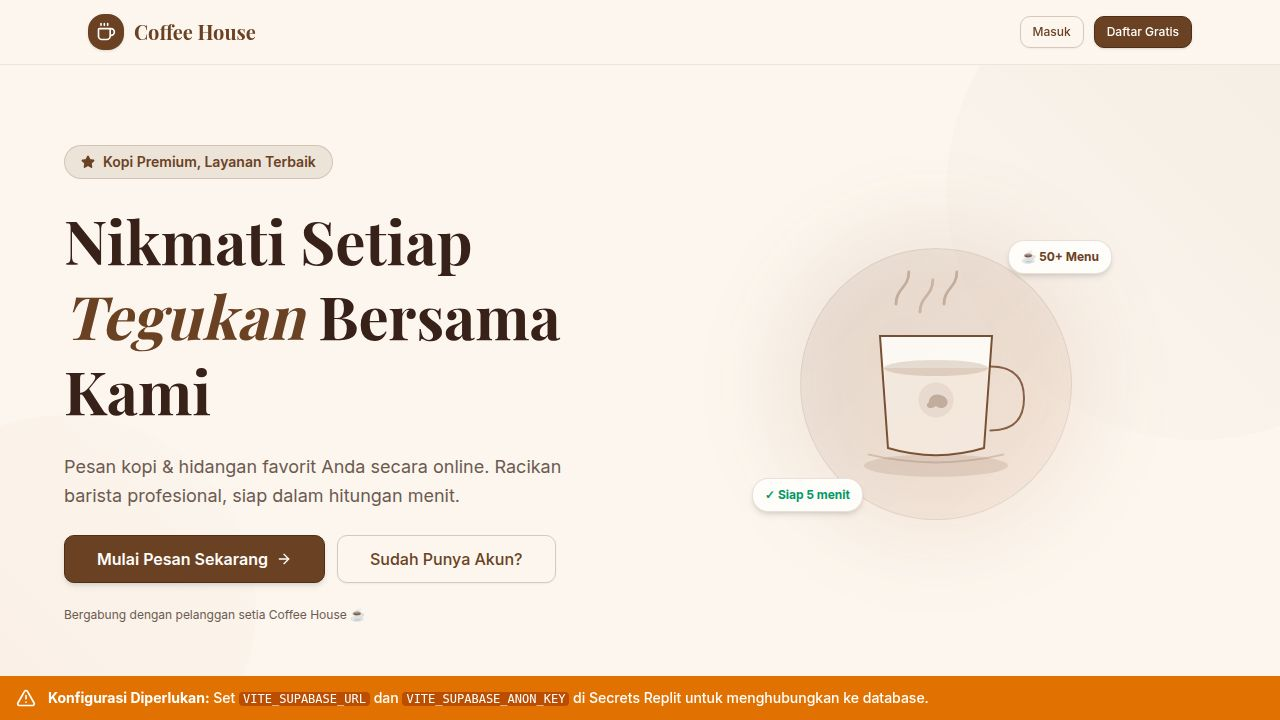
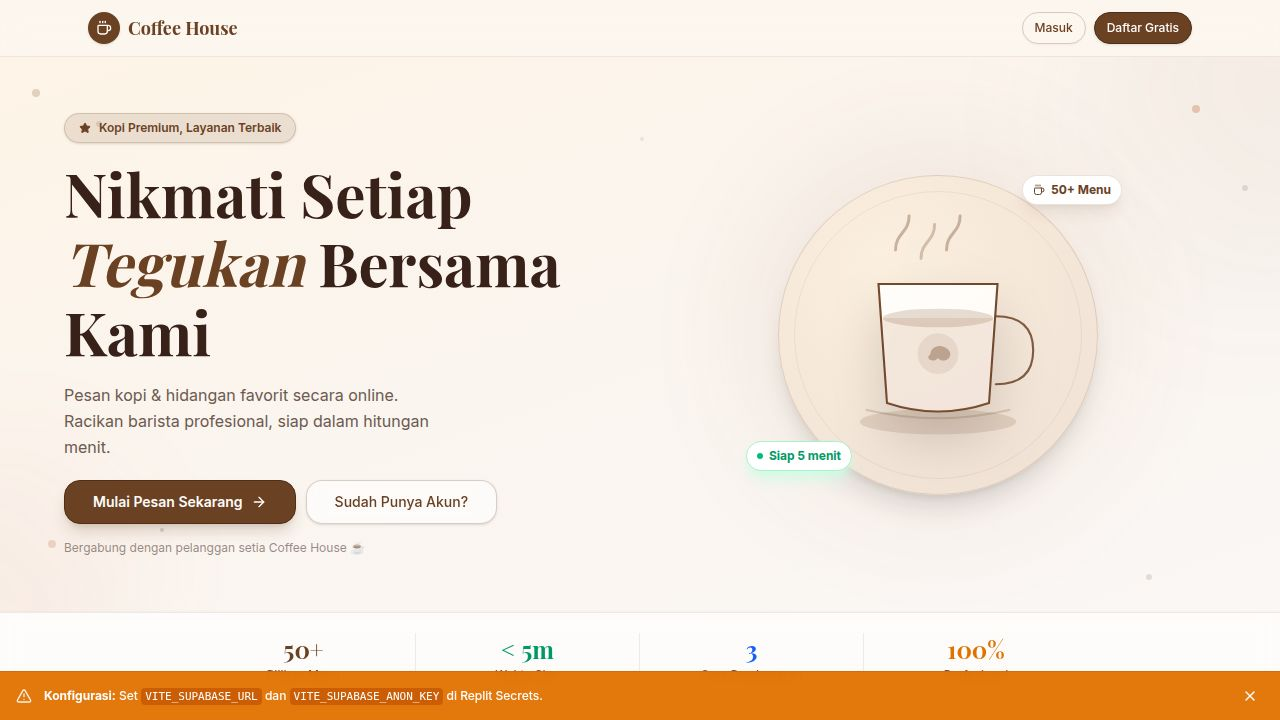
Add personalized greetings and search functionality to the menu page
Adds a personalized greeting banner and search bar to the MenuPage, and updates the MenuGrid component for better mobile responsiveness.

Replit-Commit-Author: Agent
Replit-Commit-Session-Id: 07562112-2173-41ec-a200-76db319d40c2
Replit-Commit-Checkpoint-Type: full_checkpoint
Replit-Commit-Event-Id: 35a81006-3a9f-49f6-91ac-394bfe94c1f9
Replit-Commit-Screenshot-Url: https://storage.googleapis.com/screenshot-production-us-central1/54ad4032-a1f5-424b-afe0-efc4f24c756f/07562112-2173-41ec-a200-76db319d40c2/ktf0HLD
Replit-Helium-Checkpoint-Created: true

diff --git a/artifacts/coffee-house/src/pages/MenuPage.tsx b/artifacts/coffee-house/src/pages/MenuPage.tsx
@@ -8,7 +8,7 @@ import { Button } from '@/components/ui/button'
 import { Sheet, SheetContent, SheetHeader, SheetTitle, SheetTrigger } from '@/components/ui/sheet'
 import {
   LogOut, ShoppingBag, Clock, CheckCircle, AlertCircle,
-  Eye, RefreshCw, ShoppingCart, Coffee, UtensilsCrossed, ClipboardList,
+  Eye, RefreshCw, ShoppingCart, Coffee, UtensilsCrossed, ClipboardList, Search, X,
 } from 'lucide-react'
 import { formatRupiah } from '@/lib/utils'
 import { toast } from 'sonner'
@@ -42,16 +42,25 @@ const paymentStatusConfig: Record<string, { label: string; cls: string }> = {
 }
 
 const orderStatusConfig: Record<string, { label: string; cls: string; icon?: React.ElementType }> = {
-  pending:   { label: 'Antrean',       cls: 'bg-amber-50 border-amber-200 text-amber-800',     icon: Clock },
+  pending:   { label: 'Antrean',       cls: 'bg-amber-50 border-amber-200 text-amber-800',       icon: Clock },
   preparing: { label: 'Sedang Dibuat', cls: 'bg-blue-50 border-blue-200 text-blue-800' },
   ready:     { label: 'Siap Diambil',  cls: 'bg-emerald-50 border-emerald-200 text-emerald-800', icon: CheckCircle },
   completed: { label: 'Selesai',       cls: 'bg-slate-50 border-slate-200 text-slate-700' },
-  cancelled: { label: 'Dibatalkan',    cls: 'bg-rose-50 border-rose-200 text-rose-800',         icon: AlertCircle },
+  cancelled: { label: 'Dibatalkan',    cls: 'bg-rose-50 border-rose-200 text-rose-800',           icon: AlertCircle },
+}
+
+function getTimeGreeting() {
+  const hour = new Date().getHours()
+  if (hour < 11) return 'Selamat pagi'
+  if (hour < 15) return 'Selamat siang'
+  if (hour < 18) return 'Selamat sore'
+  return 'Selamat malam'
 }
 
 export default function MenuPage() {
   const [items, setItems] = useState<MenuItem[]>([])
   const [selectedCategory, setSelectedCategory] = useState<string | null>(null)
+  const [searchQuery, setSearchQuery] = useState('')
   const [isLoadingMenu, setIsLoadingMenu] = useState(true)
   const [user, setUser] = useState<any>(null)
   const [activeTab, setActiveTab] = useState<'menu' | 'orders'>('menu')
@@ -87,10 +96,7 @@ export default function MenuPage() {
     setIsLoadingOrders(true)
     try {
       const { data, error } = await supabase
-        .from('orders')
-        .select('*')
-        .eq('user_id', user.id)
-        .order('created_at', { ascending: false })
+        .from('orders').select('*').eq('user_id', user.id).order('created_at', { ascending: false })
       if (error && isSupabaseConfigured) toast.error('Gagal mengambil riwayat pesanan')
       else if (data) setOrders(data)
     } catch {
@@ -104,7 +110,12 @@ export default function MenuPage() {
   }, [activeTab, user])
 
   const categories = Array.from(new Set(items.map((item) => item.category))).sort()
-  const filteredItems = selectedCategory ? items.filter((item) => item.category === selectedCategory) : items
+  const filteredItems = items.filter((item) => {
+    const matchesCategory = !selectedCategory || item.category === selectedCategory
+    const q = searchQuery.toLowerCase()
+    const matchesSearch = !q || item.name.toLowerCase().includes(q) || item.description?.toLowerCase().includes(q)
+    return matchesCategory && matchesSearch
+  })
   const cartCount = cart.items.reduce((s, i) => s + i.quantity, 0)
   const cartTotal = cart.getTotal()
 
@@ -113,11 +124,13 @@ export default function MenuPage() {
     setLocation('/auth/login')
   }
 
+  const greeting = getTimeGreeting()
+
   return (
     <div className="min-h-screen bg-background">
-      {/* Header */}
+      {/* ── Header ── */}
       <header className="sticky top-0 z-40 border-b border-primary/10 bg-background/95 backdrop-blur-md shadow-sm">
-        <div className="flex items-center px-4 md:px-6 py-3 gap-3">
+        <div className="flex items-center px-4 md:px-6 py-3 gap-3 max-w-7xl mx-auto">
           <div className="flex items-center gap-2 min-w-0 flex-1">
             <div className="w-8 h-8 rounded-lg bg-primary flex items-center justify-center flex-shrink-0">
               <Coffee className="h-4 w-4 text-primary-foreground" />
@@ -127,18 +140,15 @@ export default function MenuPage() {
             </span>
           </div>
 
-          {/* Desktop: username + logout */}
           {user && (
-            <span className="hidden sm:flex items-center gap-1.5 text-xs font-medium text-muted-foreground bg-primary/6 px-3 py-1.5 rounded-lg border border-primary/12 truncate max-w-[140px]">
-              <span className="w-1.5 h-1.5 bg-emerald-400 rounded-full flex-shrink-0" />
-              {user.username}
-            </span>
+            <div className="hidden sm:flex items-center gap-1.5 text-xs font-medium text-muted-foreground bg-primary/6 px-3 py-1.5 rounded-lg border border-primary/12 truncate max-w-[160px]">
+              <span className="w-1.5 h-1.5 bg-emerald-400 rounded-full flex-shrink-0 animate-pulse" />
+              <span className="truncate">{greeting}, <span className="font-bold text-primary">{user.username}</span></span>
+            </div>
           )}
 
           <Button
-            variant="ghost"
-            size="sm"
-            onClick={handleLogout}
+            variant="ghost" size="sm" onClick={handleLogout}
             className="text-muted-foreground hover:text-red-500 hover:bg-red-50 h-8 px-2 rounded-lg text-xs gap-1.5 flex-shrink-0"
           >
             <LogOut className="h-3.5 w-3.5" />
@@ -147,7 +157,7 @@ export default function MenuPage() {
         </div>
       </header>
 
-      {/* Desktop tab bar */}
+      {/* ── Desktop tab bar ── */}
       <div className="hidden lg:block border-b border-primary/10 bg-background sticky top-[57px] z-30">
         <div className="flex max-w-7xl mx-auto px-6">
           {(['menu', 'orders'] as const).map((tab) => (
@@ -162,45 +172,86 @@ export default function MenuPage() {
             >
               {tab === 'menu'
                 ? <><UtensilsCrossed className="h-3.5 w-3.5" />Daftar Menu</>
-                : <><ClipboardList className="h-3.5 w-3.5" />Pesanan Saya</>
+                : <><ClipboardList className="h-3.5 w-3.5" />Pesanan Saya
+                  {orders.length > 0 && (
+                    <span className="ml-1 bg-primary text-primary-foreground text-[9px] font-bold w-4 h-4 rounded-full flex items-center justify-center">
+                      {orders.length}
+                    </span>
+                  )}
+                </>
               }
             </button>
           ))}
         </div>
       </div>
 
-      {/* Mobile page title bar */}
+      {/* ── Mobile greeting banner ── */}
       <div
-        className="lg:hidden px-4 py-3 border-b border-primary/10"
-        style={{ background: 'linear-gradient(90deg, hsl(25 50% 28% / 0.06) 0%, hsl(35 80% 95%) 100%)' }}
+        className="lg:hidden border-b border-primary/8"
+        style={{ background: 'linear-gradient(100deg, hsl(35 85% 95%) 0%, hsl(30 55% 97%) 60%, hsl(25 35% 98%) 100%)' }}
       >
-        <div className="flex items-center justify-between">
-          <div className="flex items-center gap-2">
-            <div className={`w-7 h-7 rounded-lg flex items-center justify-center ${activeTab === 'menu' ? 'bg-primary' : 'bg-blue-500'}`}>
-              {activeTab === 'menu'
-                ? <UtensilsCrossed className="h-3.5 w-3.5 text-white" />
-                : <ClipboardList className="h-3.5 w-3.5 text-white" />
-              }
-            </div>
-            <h2 className="text-sm font-bold text-foreground">
-              {activeTab === 'menu' ? 'Daftar Menu' : 'Pesanan Saya'}
-            </h2>
+        <div className="px-4 py-3 flex items-center justify-between">
+          <div className="min-w-0">
+            <p className="text-[11px] text-muted-foreground font-medium">{greeting}! 👋</p>
+            <p className="text-sm font-bold text-primary truncate" style={{ fontFamily: 'Playfair Display, serif' }}>
+              {user ? user.username : 'Pelanggan'}{activeTab === 'menu' ? ' — mau pesan apa?' : ' — pesanan kamu'}
+            </p>
           </div>
-          {user && (
-            <div className="flex items-center gap-1.5 bg-white/60 border border-primary/10 rounded-full px-2.5 py-1">
-              <span className="w-1.5 h-1.5 bg-emerald-400 rounded-full" />
-              <span className="text-xs font-medium text-foreground/70">{user.username}</span>
-            </div>
-          )}
+          {/* Mobile tab switcher pills */}
+          <div className="flex gap-1 flex-shrink-0 ml-3">
+            <button
+              onClick={() => setActiveTab('menu')}
+              className={`flex items-center gap-1 px-2.5 py-1.5 rounded-lg text-[11px] font-semibold transition-all ${
+                activeTab === 'menu' ? 'bg-primary text-white shadow-sm' : 'bg-black/5 text-foreground/60 hover:bg-black/8'
+              }`}
+            >
+              <UtensilsCrossed className="h-3 w-3" />
+              Menu
+            </button>
+            <button
+              onClick={() => setActiveTab('orders')}
+              className={`flex items-center gap-1 px-2.5 py-1.5 rounded-lg text-[11px] font-semibold transition-all relative ${
+                activeTab === 'orders' ? 'bg-primary text-white shadow-sm' : 'bg-black/5 text-foreground/60 hover:bg-black/8'
+              }`}
+            >
+              <ClipboardList className="h-3 w-3" />
+              Pesanan
+              {orders.length > 0 && activeTab !== 'orders' && (
+                <span className="absolute -top-1 -right-1 bg-accent text-accent-foreground text-[8px] font-bold w-3.5 h-3.5 rounded-full flex items-center justify-center">
+                  {orders.length}
+                </span>
+              )}
+            </button>
+          </div>
         </div>
       </div>
 
-      {/* Main content */}
+      {/* ── Main content ── */}
       <div className="max-w-7xl mx-auto px-4 md:px-6 py-4 pb-24 lg:pb-6">
         {activeTab === 'menu' ? (
           <div className="flex flex-col lg:flex-row gap-6">
             <div className="flex-1 min-w-0">
-              {/* Category filter */}
+              {/* Search bar */}
+              <div className="relative mb-3">
+                <Search className="absolute left-3 top-1/2 -translate-y-1/2 h-4 w-4 text-muted-foreground pointer-events-none" />
+                <input
+                  type="text"
+                  value={searchQuery}
+                  onChange={(e) => setSearchQuery(e.target.value)}
+                  placeholder="Cari menu favoritmu..."
+                  className="w-full bg-card border border-primary/15 rounded-xl py-2.5 pl-9 pr-9 text-sm focus:outline-none focus:border-primary/40 focus:ring-2 focus:ring-primary/10 transition-all placeholder:text-muted-foreground/60 shadow-sm"
+                />
+                {searchQuery && (
+                  <button
+                    onClick={() => setSearchQuery('')}
+                    className="absolute right-3 top-1/2 -translate-y-1/2 text-muted-foreground hover:text-foreground transition-colors p-0.5 rounded"
+                  >
+                    <X className="h-3.5 w-3.5" />
+                  </button>
+                )}
+              </div>
+
+              {/* Category filter pills */}
               <div className="mb-4">
                 <div className="flex gap-2 overflow-x-auto pb-1 scrollbar-none -mx-1 px-1">
                   <button
@@ -240,7 +291,7 @@ export default function MenuPage() {
                   className="rounded-3xl mt-2 overflow-hidden border border-primary/10 shadow-sm"
                   style={{ background: 'linear-gradient(160deg, hsl(35 80% 97%) 0%, hsl(25 50% 96%) 100%)' }}
                 >
-                  <div className="px-6 py-12 text-center space-y-3">
+                  <div className="px-6 py-14 text-center space-y-3">
                     <div className="relative w-20 h-20 mx-auto">
                       <div className="absolute inset-0 rounded-full bg-primary/8 animate-pulse" />
                       <div className="relative flex items-center justify-center h-full">
@@ -259,11 +310,16 @@ export default function MenuPage() {
               ) : filteredItems.length === 0 ? (
                 <div className="text-center py-16 border border-dashed border-primary/20 rounded-2xl bg-card/50 mt-2">
                   <div className="w-14 h-14 rounded-2xl bg-primary/8 flex items-center justify-center mx-auto mb-3">
-                    <Coffee className="h-6 w-6 text-primary/30" />
+                    <Search className="h-6 w-6 text-primary/30" />
                   </div>
-                  <p className="font-medium text-foreground/60 text-sm">Tidak ada menu di kategori ini.</p>
-                  <button onClick={() => setSelectedCategory(null)} className="text-xs text-primary hover:underline mt-2 inline-block">
-                    Lihat semua menu →
+                  <p className="font-medium text-foreground/60 text-sm">
+                    {searchQuery ? `Tidak ada menu "${searchQuery}"` : 'Tidak ada menu di kategori ini.'}
+                  </p>
+                  <button
+                    onClick={() => { setSearchQuery(''); setSelectedCategory(null) }}
+                    className="text-xs text-primary hover:underline mt-2 inline-block"
+                  >
+                    Reset pencarian →
                   </button>
                 </div>
               ) : (
@@ -277,7 +333,7 @@ export default function MenuPage() {
             </div>
           </div>
         ) : (
-          /* Orders tab — desktop */
+          /* Orders tab */
           <div className="space-y-4 max-w-2xl">
             <div className="flex justify-between items-center">
               <div>
@@ -299,17 +355,23 @@ export default function MenuPage() {
                 ))}
               </div>
             ) : orders.length === 0 ? (
-              <div className="bg-card border border-primary/10 rounded-2xl p-10 text-center space-y-4 shadow-sm">
-                <div className="w-16 h-16 rounded-2xl bg-primary/8 flex items-center justify-center mx-auto">
-                  <ShoppingBag className="h-7 w-7 text-primary/30" />
+              <div
+                className="rounded-3xl overflow-hidden border border-primary/10 shadow-sm"
+                style={{ background: 'linear-gradient(160deg, hsl(35 80% 97%) 0%, hsl(25 50% 96%) 100%)' }}
+              >
+                <div className="p-10 text-center space-y-4">
+                  <div className="w-16 h-16 rounded-2xl bg-primary/8 flex items-center justify-center mx-auto">
+                    <ShoppingBag className="h-7 w-7 text-primary/30" />
+                  </div>
+                  <div>
+                    <p className="font-bold text-foreground/70">Belum ada pesanan</p>
+                    <p className="text-sm text-muted-foreground mt-1">Yuk, mulai pesan kopi favoritmu!</p>
+                  </div>
+                  <Button onClick={() => setActiveTab('menu')} className="bg-primary hover:bg-primary/90 shadow-sm rounded-xl gap-2">
+                    <UtensilsCrossed className="h-4 w-4" />
+                    Lihat Menu
+                  </Button>
                 </div>
-                <div>
-                  <p className="font-medium text-foreground/70">Belum ada pesanan</p>
-                  <p className="text-sm text-muted-foreground mt-1">Yuk, mulai pesan kopi favoritmu!</p>
-                </div>
-                <Button onClick={() => setActiveTab('menu')} className="bg-primary hover:bg-primary/90 shadow-sm rounded-xl">
-                  Pesan Sekarang
-                </Button>
               </div>
             ) : (
               <div className="space-y-3">
@@ -359,10 +421,10 @@ export default function MenuPage() {
         )}
       </div>
 
-      {/* ─── MOBILE BOTTOM NAVIGATION ─── */}
+      {/* ── Mobile Bottom Navigation ── */}
       <Sheet open={cartSheetOpen} onOpenChange={setCartSheetOpen}>
         <div
-          className="lg:hidden fixed bottom-0 left-0 right-0 z-50 bg-card/95 backdrop-blur-md border-t border-primary/12 shadow-[0_-4px_20px_rgba(0,0,0,0.08)]"
+          className="lg:hidden fixed bottom-0 left-0 right-0 z-50 bg-card/96 backdrop-blur-md border-t border-primary/12 shadow-[0_-4px_20px_rgba(0,0,0,0.08)]"
           style={{ paddingBottom: 'env(safe-area-inset-bottom, 0px)' }}
         >
           <div className="flex items-stretch h-16">
@@ -388,13 +450,13 @@ export default function MenuPage() {
                 <div className="relative p-1.5">
                   <ShoppingCart className="h-5 w-5" />
                   {cartCount > 0 && (
-                    <span className="absolute -top-0.5 -right-0.5 bg-accent text-accent-foreground text-[9px] min-w-[16px] h-[16px] rounded-full flex items-center justify-center font-bold px-0.5 leading-none">
+                    <span className="absolute -top-0.5 -right-0.5 bg-accent text-accent-foreground text-[9px] min-w-[16px] h-[16px] rounded-full flex items-center justify-center font-bold px-0.5 leading-none shadow-sm">
                       {cartCount > 9 ? '9+' : cartCount}
                     </span>
                   )}
                 </div>
                 <span className="text-[10px] font-semibold leading-none">
-                  {cartCount > 0 ? formatRupiah(cart.getTotal()).replace('Rp', '') : 'Keranjang'}
+                  {cartCount > 0 ? formatRupiah(cartTotal).replace('Rp\u00a0', '') : 'Keranjang'}
                 </span>
               </button>
             </SheetTrigger>
@@ -422,9 +484,9 @@ export default function MenuPage() {
           </div>
         </div>
 
-        {/* Cart sheet content */}
+        {/* Cart Sheet */}
         <SheetContent side="right" className="w-full sm:w-96 p-0 flex flex-col">
-          <SheetHeader className="px-5 py-4 border-b border-primary/10 flex-shrink-0">
+          <SheetHeader className="px-5 py-4 border-b border-primary/10 flex-shrink-0 bg-gradient-to-r from-primary/8 to-accent/6">
             <SheetTitle className="flex items-center gap-2 text-base">
               <ShoppingCart className="h-4 w-4 text-primary" />
               Keranjang Belanja

diff --git a/artifacts/coffee-house/src/components/MenuGrid.tsx b/artifacts/coffee-house/src/components/MenuGrid.tsx
@@ -61,7 +61,7 @@ export default function MenuGrid({ items }: MenuGridProps) {
   }
 
   return (
-    <div className="grid grid-cols-1 xs:grid-cols-2 sm:grid-cols-2 xl:grid-cols-3 gap-4">
+    <div className="grid grid-cols-2 xl:grid-cols-3 gap-3 sm:gap-4">
       {items.map((item) => {
         const style = getCategoryStyle(item.category)
         const PlaceholderIcon = style.icon